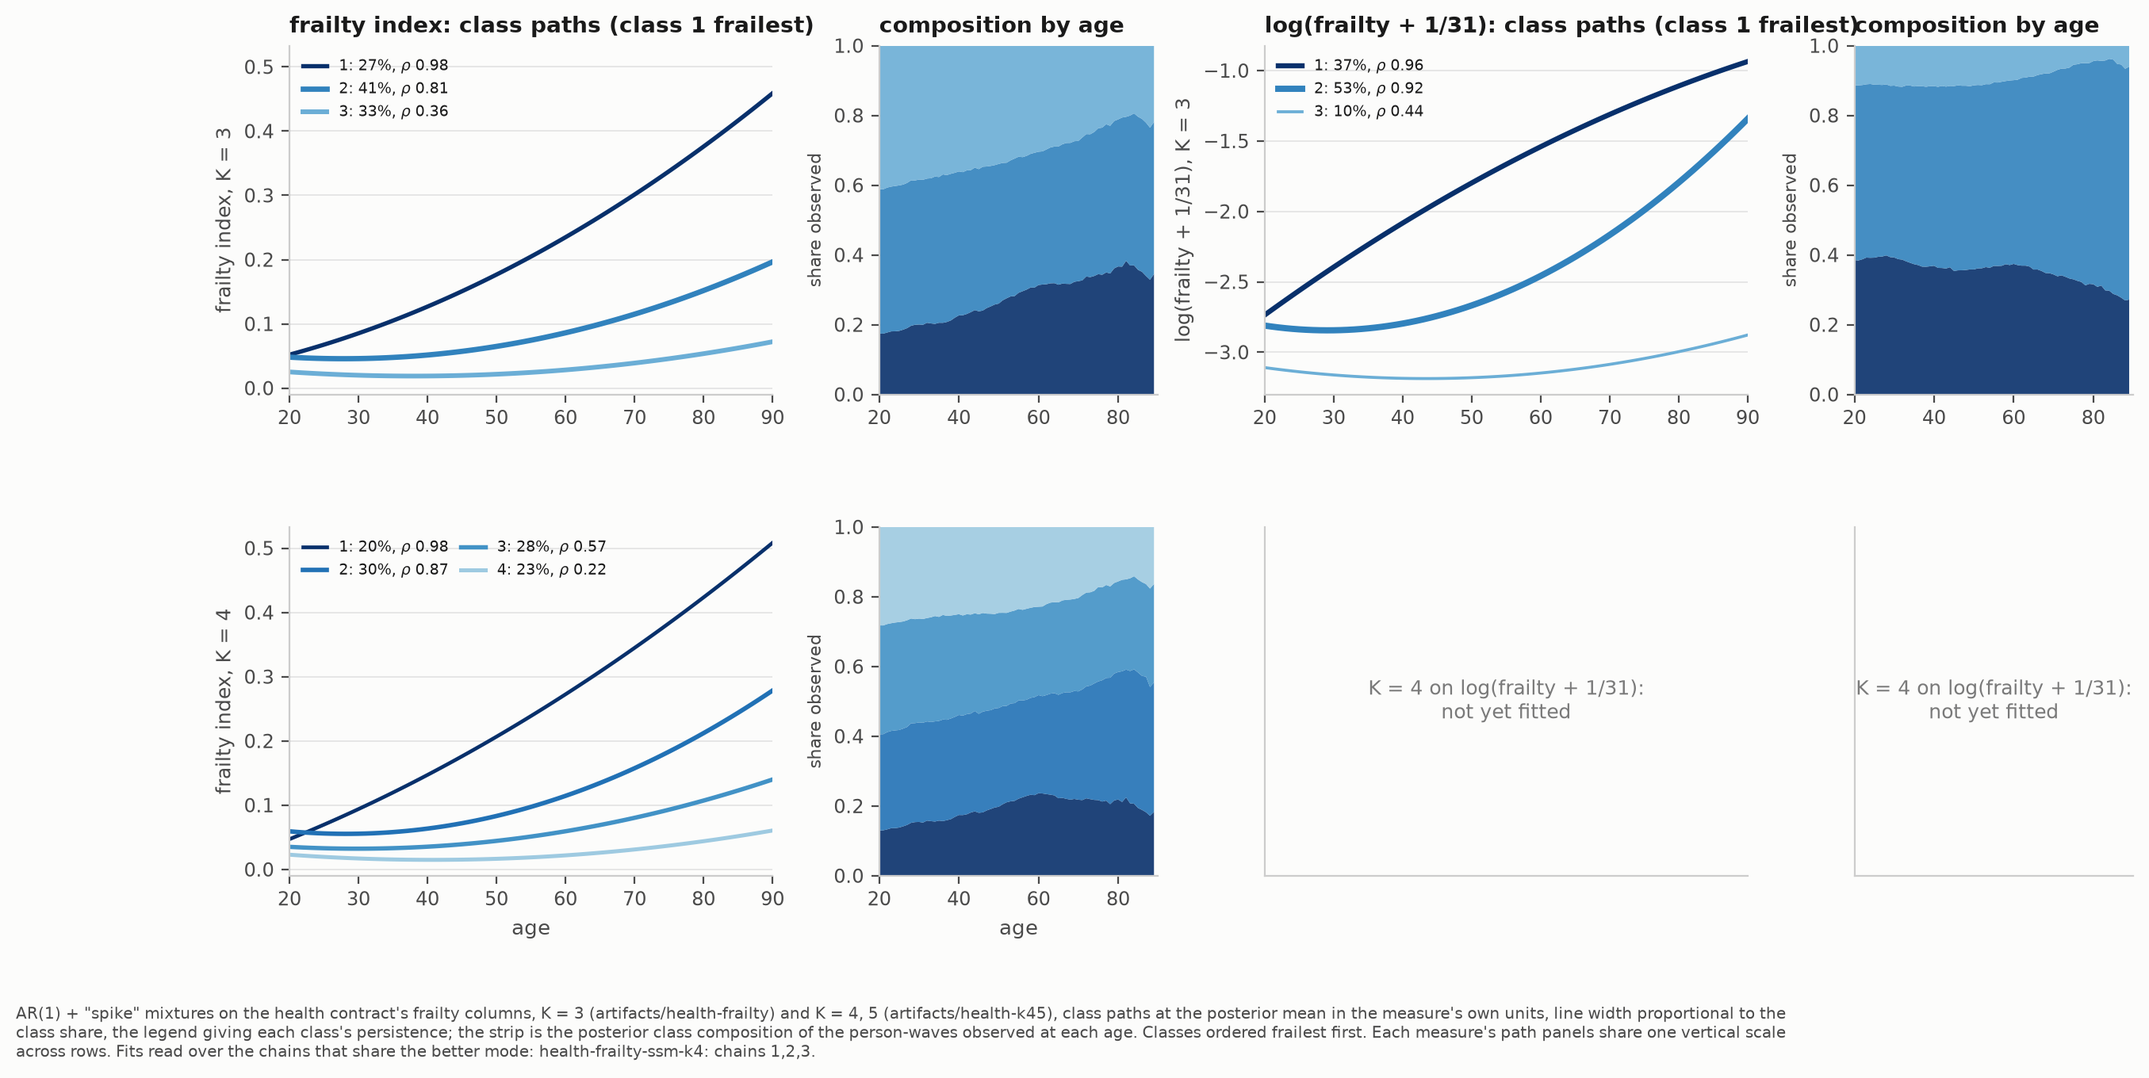
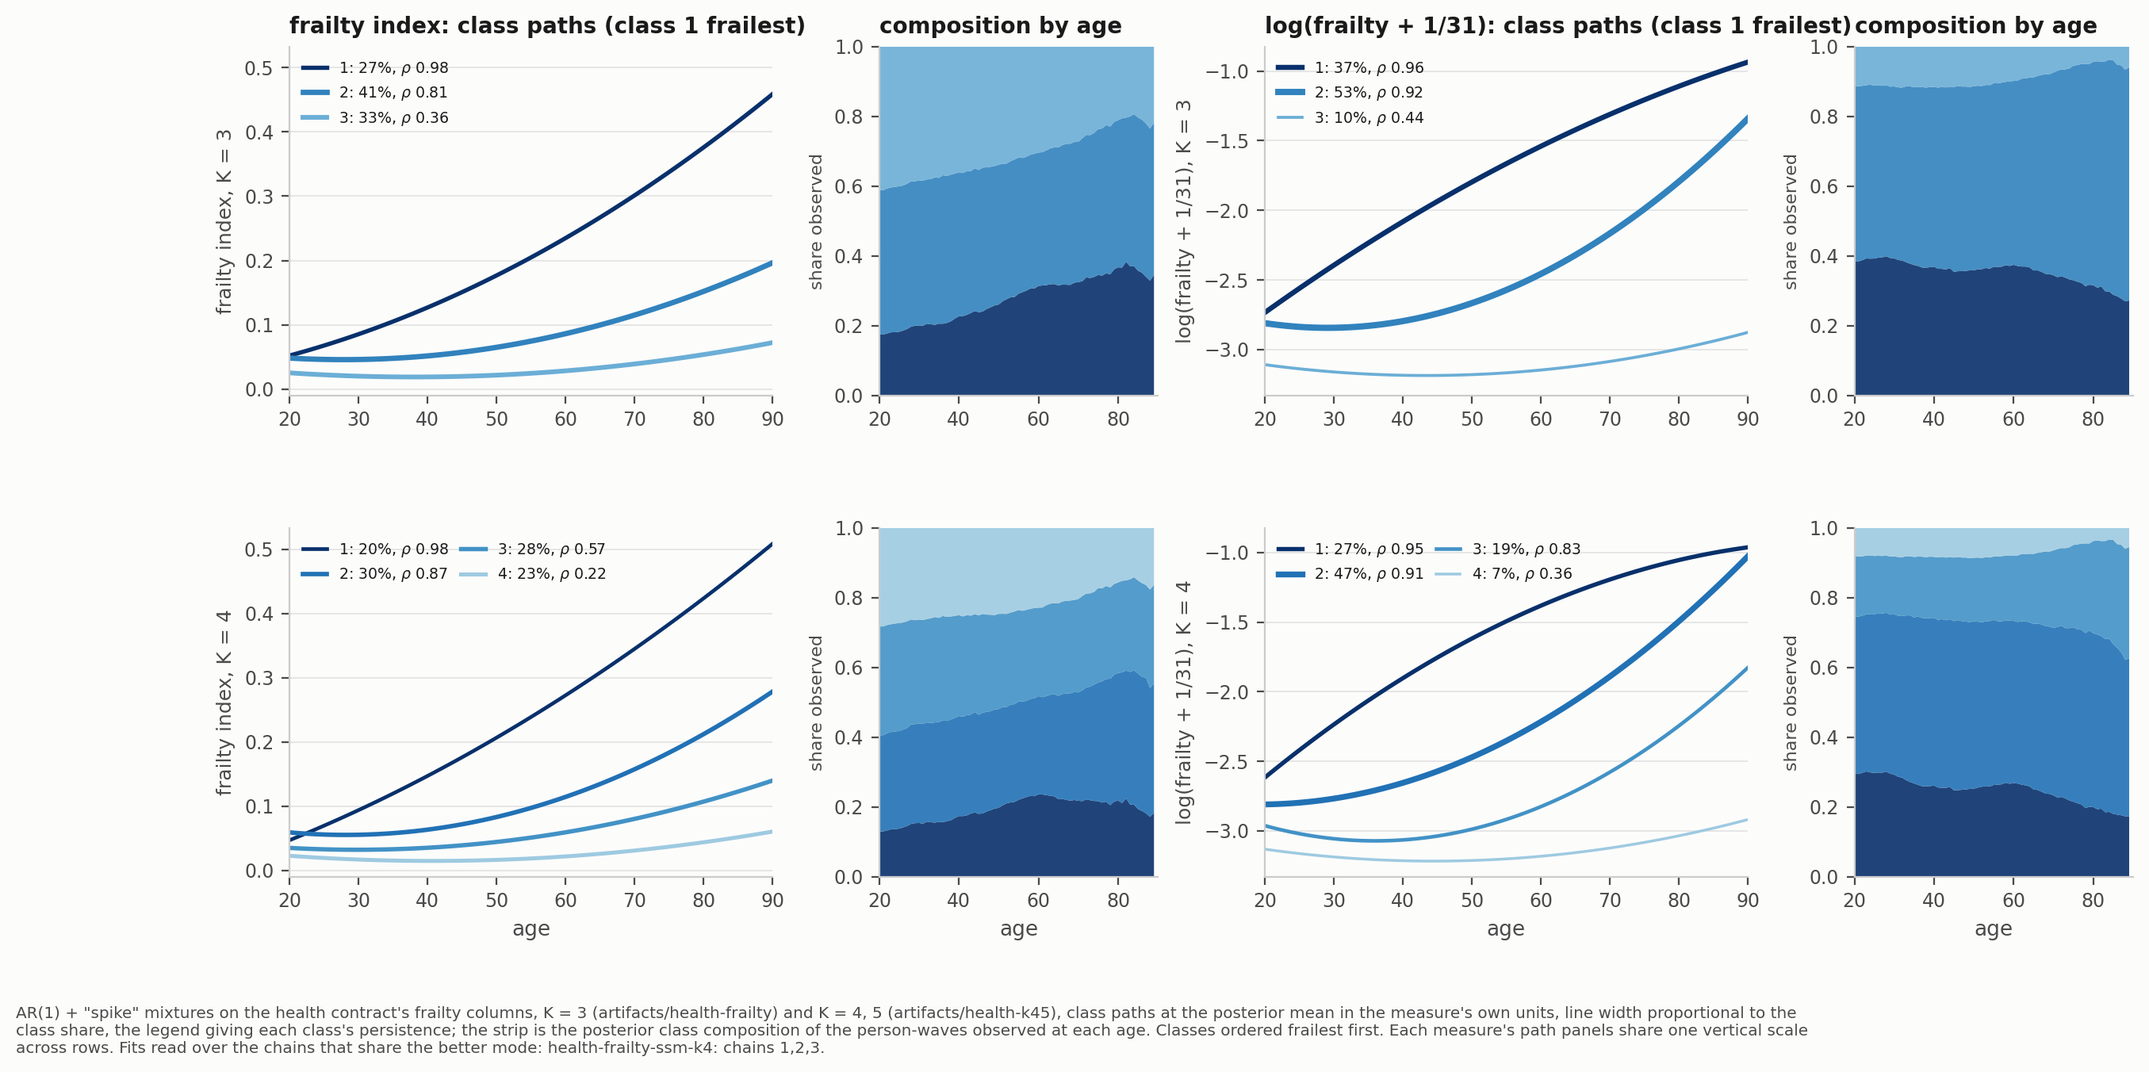
Finished fits processed: K = 4 windows twin, cohort K = 5, log-frailty K = 4
50 --k 4 draws the K = 4 twin of the windows figure (new appendix figure
fig:windows_k4), reading 60-90 over chains 1-3 (label swap in chain 4) and
70-90 over chains 1, 4 (two modes). 39 --kcohort reads cohort K = 5 over
chains 2, 3, which reproduce the no-shift K = 5 chain-1 classes; captions
of fig:multidim_k4_cohort and fig:frailty_by_K updated (51 rerun with
log-frailty K = 4).

Claude-Session: https://claude.ai/code/session_01X1eFnzWAvA5Cu7Ljyocxn7

diff --git a/descriptives/50_paper_windows_bayes.py b/descriptives/50_paper_windows_bayes.py
@@ -22,7 +22,10 @@ separates a different grouping from a blurred one.
 Outputs: paper/figures/fig_windows_bayes.png, artifacts/descriptives/paper_windows_bayes.csv
 (per window) and paper_windows_bayes_composition.csv (the worst class's share by age per window).
 
-    PYTHONPATH=src .venv/bin/python descriptives/50_paper_windows_bayes.py
+--k 4: the K = 4 twin, on the K = 4 window fits (theta-ssm-k4-{lo}-{hi}, windows_queue.py --k 4)
+against the K = 4 lifecycle fit (health-k45/health-theta-ssm-k4); outputs carry a _k4 suffix.
+
+    PYTHONPATH=src .venv/bin/python descriptives/50_paper_windows_bayes.py [--k 4]
 """
 
 from __future__ import annotations
@@ -47,25 +50,34 @@ SLIDING = [(20, 40), (30, 50), (40, 60), (50, 70), (60, 80), (70, 90)]
 BACKWARD = [(70, 90), (60, 90), (50, 90), (40, 90), (30, 90), (20, 90)]
 WIN = ARTIFACTS_DIR / "health-windows"
 V = "theta"
+KW = int(sys.argv[sys.argv.index("--k") + 1]) if "--k" in sys.argv else K
+SFX = "" if KW == K else f"_k{KW}"
+TAG = f"{V}-ssm-" if KW == K else f"{V}-ssm-k{KW}-"
+LIFE = ARTIFACTS_DIR / "health-ssm" / f"health-{V}-ssm" if KW == K else ARTIFACTS_DIR / "health-k45" / f"health-{V}-ssm-k{KW}"
+PAL = CLUSTER if KW == K else {4: ["#08306b", "#2171b5", "#4292c6", "#9ecae1"],
+                               5: ["#08306b", "#08519c", "#2171b5", "#4292c6", "#9ecae1"]}[KW]   # worst -> best, as 39
+# windows whose chains split: read over the chains that share the better mode
+WINDOW_CHAINS = {"theta-ssm-k4-60-90": [1, 2, 3],   # chain 4 has classes 3 and 4 swapped, otherwise identical
+                 "theta-ssm-k4-70-90": [1, 4]}      # two modes; 1, 4 at lp -44,565, 2, 3 at -44,573 / -44,576
 
 
 def window_fit(lo: int, hi: int) -> dict:
     """bayes_fit on the window's contract, classes re-ordered worst to best by the mean path over the window."""
     if (lo, hi) == (MIN_AGE, MAX_AGE):
-        r = bayes_fit(ARTIFACTS_DIR / "health-ssm" / f"health-{V}-ssm", V, K); contract = CONTRACT
+        r = bayes_fit(LIFE, V, KW); contract = CONTRACT
     else:
         contract = PROCESSED_DATA_DIR / "contracts" / f"health_window_{lo}_{hi}_v1"
-        r = bayes_fit(WIN / f"{V}-ssm-{lo}-{hi}", V, K, contract=contract)
+        r = bayes_fit(WIN / f"{TAG}{lo}-{hi}", V, KW, chains=WINDOW_CHAINS.get(f"{TAG}{lo}-{hi}"), contract=contract)
     ages = np.arange(lo, hi + 1); A = (ages - 55) / 10
     paths = np.vstack([r["mom"]["mean"] + r["mom"]["sd"] * (c[0] + c[1] * A + c[2] * A ** 2) for c in r["coef"]])
     order = np.argsort(paths.mean(axis=1))                      # worst (lowest theta) first
-    cols = [f"class{k + 1}" for k in range(K)]
+    cols = [f"class{k + 1}" for k in range(KW)]
     post = r["post"][cols].to_numpy()[:, order]
     comp = r["comp"][cols].to_numpy()[:, order]
-    summ = json.load(open((ARTIFACTS_DIR / "health-ssm" / f"health-{V}-ssm" if (lo, hi) == (MIN_AGE, MAX_AGE) else WIN / f"{V}-ssm-{lo}-{hi}") / "run_summary.json"))
+    summ = json.load(open((LIFE if (lo, hi) == (MIN_AGE, MAX_AGE) else WIN / f"{TAG}{lo}-{hi}") / "run_summary.json"))
     return {"lo": lo, "hi": hi, "ages": ages, "paths": paths[order], "share": r["theta"][order], "rho": r["rho"][order],
             "post": pd.DataFrame(post, columns=cols, index=r["post"]["pidp"].to_numpy()),
-            "comp": pd.DataFrame(comp, columns=cols, index=r["comp"].index), "rhat": summ["max_structural_rhat"],
+            "comp": pd.DataFrame(comp, columns=cols, index=r["comp"].index), "rhat": r["rhat"], "chains": r["chains"],
             "n": len(r["post"]), "wall": summ.get("wall_hours")}
 
 
@@ -77,20 +89,20 @@ def main() -> int:
     for w, f in fits.items():
         print(f"{w[0]}-{w[1]}: {f['n']:,} people, rhat {f['rhat']:.3f}, shares {np.round(f['share'], 3)}, rho {np.round(f['rho'], 2)}, wall {f['wall']}")
     fig, axes = plt.subplots(2, 3, figsize=(12.5, 7.9), gridspec_kw={"wspace": 0.25, "hspace": 0.45}, squeeze=False)
-    fig.suptitle("$\\theta$, K = 3 AR(1) + \"spike\" classes refitted on age windows", x=0.125, ha="left", fontsize=11, fontweight="bold", y=0.96)
+    fig.suptitle(f"$\\theta$, K = {KW} AR(1) + \"spike\" classes refitted on age windows", x=0.125, ha="left", fontsize=11, fontweight="bold", y=0.96)
     cmap = plt.get_cmap("viridis")
     rows = []
     for col, (wins, name) in enumerate([(SLIDING, "sliding twenty-year windows"), (BACKWARD, "windows expanding backwards from 90")]):
         ax = axes[0, col]
-        for k in range(K):
+        for k in range(KW):
             ax.plot(full["ages"], full["paths"][k], color=INK3, lw=3.0, alpha=0.35, zorder=1)
         for lo, hi in wins:
             if (lo, hi) == (MIN_AGE, MAX_AGE):
                 continue
             f = fits[(lo, hi)]
-            for k in range(K):
-                ax.plot(f["ages"], f["paths"][k], color=CLUSTER[k], lw=1.0 + 2.5 * f["share"][k], zorder=2)
-                ax.plot([lo], [f["paths"][k][0]], color=CLUSTER[k], marker="|", ms=7)
+            for k in range(KW):
+                ax.plot(f["ages"], f["paths"][k], color=PAL[k], lw=1.0 + 2.5 * f["share"][k], zorder=2)
+                ax.plot([lo], [f["paths"][k][0]], color=PAL[k], marker="|", ms=7)
             modal = pd.Series(f["post"].to_numpy().argmax(axis=1), index=f["post"].index)
             both = modal.index.intersection(full_modal.index)
             rows.append({"kind": "sliding" if col == 0 else "backward", "lo": lo, "hi": hi, "people": f["n"], "shared": len(both),
@@ -98,7 +110,8 @@ def main() -> int:
                          "coassign_corr": coassignment_corr(f["post"], full["post"]),
                          "same_vs_full": float((modal.loc[both] == full_modal.loc[both]).mean()),
                          "worst_share": float(f["share"][0]), "worst_modal_share": float((modal == 0).mean()), "rhat": f["rhat"],
-                         "rho_worst": f["rho"][0], "rho_mid": f["rho"][1], "rho_best": f["rho"][2]})
+                         "rho_worst": f["rho"][0], "rho_mid": f["rho"][1], "rho_best": f["rho"][-1],
+                         "chains": "all" if f["chains"] is None else ",".join(map(str, f["chains"]))})
         ax.set_title(f"({'ab'[col]}) {'sliding twenty-year windows' if col == 0 else 'windows expanding backwards from 90'}", loc="left", fontsize=9.5)
         ax.grid(True, axis="y"); ax.set_xlim(MIN_AGE, MAX_AGE); ax.set_xlabel("age")
     r = pd.DataFrame(rows)
@@ -128,18 +141,20 @@ def main() -> int:
     ax.set_ylim(0, 0.6); ax.grid(True, axis="y"); ax.set_xlim(MIN_AGE, MAX_AGE)
     ax.set_title("(f) worst class's share per window", loc="left", fontsize=9.5); ax.legend(loc="upper left", fontsize=7.5); ax.set_xlabel("age")
     share_ylim([axes[0, 0], axes[0, 1]])
-    footer = ("Each window refits the K = 3 AR(1) + \"spike\" mixture on theta on the people observed at least three times inside it (its own contract and fit). Coloured lines: the window's class paths at the posterior "
+    split = [f"{lo}-{hi} over chains {','.join(map(str, f['chains']))}" for (lo, hi), f in fits.items() if f.get("chains") is not None]
+    footer = (f"Each window refits the K = {KW} AR(1) + \"spike\" mixture on theta on the people observed at least three times inside it (its own contract and fit). Coloured lines: the window's class paths at the posterior "
               "mean over its own age range (tick at the start; line width proportional to the class share); grey: the lifecycle 20-90 fit. Panel (c): over pairs of people in both fits (a random 3,000), the correlation between the probability that the window fit puts the pair in the same class "
               "and the probability that the lifecycle fit does, sum_k p_ik p_jk under each; it needs no correspondence between the two sets of labels and is 1 whenever the two posteriors coincide "
               "(the adjusted Rand index of the modal classes is in the csv). Panels (d), (e): the worst class's posterior share of the person-waves observed at each age (five-year rolling mean), one line per window, "
-              "against the lifecycle fit in grey; (f) the worst class's share of each window's people. Classes ordered worst to best by the class path's mean over the window.")
+              "against the lifecycle fit in grey; (f) the worst class's share of each window's people. Classes ordered worst to best by the class path's mean over the window."
+              + (f" Windows whose chains split into modes are read over the chains that share the better mode: {'; '.join(split)}." if split else ""))
     fig.text(0.01, -0.01, "\n".join(textwrap.wrap(footer, 185)), fontsize=7.4, color=INK2, va="top")
-    fig.savefig(FIG / "fig_windows_bayes.png", bbox_inches="tight")
-    r.to_csv(DESC / "paper_windows_bayes.csv", index=False)
+    fig.savefig(FIG / f"fig_windows_bayes{SFX}.png", bbox_inches="tight")
+    r.to_csv(DESC / f"paper_windows_bayes{SFX}.csv", index=False)
     comp_rows = [{"lo": w[0], "hi": w[1], "age": int(a), "worst_share": float(v)} for w, f in fits.items() for a, v in f["comp"]["class1"].items()]
-    pd.DataFrame(comp_rows).to_csv(DESC / "paper_windows_bayes_composition.csv", index=False)
+    pd.DataFrame(comp_rows).to_csv(DESC / f"paper_windows_bayes_composition{SFX}.csv", index=False)
     print(r.round(3).to_string(index=False))
-    print(f"wrote fig_windows_bayes.png to {FIG}")
+    print(f"wrote fig_windows_bayes{SFX}.png to {FIG}")
     return 0
 
 

diff --git a/paper/paper_skeleton.tex b/paper/paper_skeleton.tex
@@ -565,7 +565,7 @@ Small robustness exercise:
 	
 	\begin{figure}[H]\centering
 		\includegraphics[width=\linewidth]{fig_windows_bayes.png}
-		\caption{The $K=3$ AR(1) plus ``spike'' classes on $\theta$ refitted on sliding twenty-year windows (a) and on windows expanding backwards from 90 (b), each on the people observed at least three times inside it, against the lifecycle classes in grey; (c) the co-assignment correlation with the lifecycle classes: over pairs of people in both fits, the correlation between the probability that the window fit puts the pair in the same class and the probability that the lifecycle fit does, which needs no correspondence between the two sets of labels and is 1 whenever the two posteriors coincide. Lower row: the worst class's posterior share of the person-waves observed at each age, for the sliding (d) and backward (e) windows, against the lifecycle fit in grey; (f) the worst class's share of each window's people. The partial K-means version is Figure~\ref{fig:windows_kmeans} in Appendix~\ref{app:kmeans}, and K-means on $h$ is in Appendix~\ref{app:measures}.}
+		\caption{The $K=3$ AR(1) plus ``spike'' classes on $\theta$ refitted on sliding twenty-year windows (a) and on windows expanding backwards from 90 (b), each on the people observed at least three times inside it, against the lifecycle classes in grey; (c) the co-assignment correlation with the lifecycle classes: over pairs of people in both fits, the correlation between the probability that the window fit puts the pair in the same class and the probability that the lifecycle fit does, which needs no correspondence between the two sets of labels and is 1 whenever the two posteriors coincide. Lower row: the worst class's posterior share of the person-waves observed at each age, for the sliding (d) and backward (e) windows, against the lifecycle fit in grey; (f) the worst class's share of each window's people. The partial K-means version is Figure~\ref{fig:windows_kmeans} in Appendix~\ref{app:kmeans}, K-means on $h$ is in Appendix~\ref{app:measures}, and the $K=4$ twin is Figure~\ref{fig:windows_k4}.}
 		\label{fig:windows}
 	\end{figure}
 	
@@ -981,7 +981,7 @@ Small robustness exercise:
 
 	\begin{figure}[H]\centering
 		\includegraphics[width=\linewidth]{fig_frailty_by_K.png}
-		\caption{The frailty index and log frailty under AR(1) plus ``spike'' by number of classes: class paths and the posterior class composition by age at $K=3$ and $K=4$ ($K=5$ when fitted), class 1 the frailest. On the frailty index $K=4$ splits the $K=3$ middle class into a steeper riser (30\%, persistence $0.87$) and a flatter one (28\%, $0.57$); the frailest class keeps its path and shrinks from 27\% to 20\%, and the healthiest stays at the floor with a persistence of $0.22$. The frailest class's share of the person-waves peaks around 60 and falls after, the mortality selection the index sees. The $K=4$ fit is read over the three chains that share its mode.}
+		\caption{The frailty index and log frailty under AR(1) plus ``spike'' by number of classes: class paths and the posterior class composition by age at $K=3$ and $K=4$ ($K=5$ when fitted), class 1 the frailest. On the frailty index $K=4$ splits the $K=3$ middle class into a steeper riser (30\%, persistence $0.87$) and a flatter one (28\%, $0.57$); the frailest class keeps its path and shrinks from 27\% to 20\%, and the healthiest stays at the floor with a persistence of $0.22$. The frailest class's share of the person-waves peaks around 60 and falls after, the mortality selection the index sees. On log frailty $K=4$ splits the healthy end instead: the frailest class shrinks from 37\% to 27\% and the middle from 53\% to 47\%, a new class (19\%, persistence $0.83$) rises late from near the floor, and the floor class falls from 10\% to 7\% (persistence $0.36$). The frailty $K=4$ fit is read over the three chains that share its mode; the log-frailty $K=4$ fit has all four chains at one mode.}
 		\label{fig:frailty_by_K}
 	\end{figure}
 	
@@ -1166,6 +1166,15 @@ Small robustness exercise:
 		\item \textbf{The number of classes refines who is in the worst type and tightens it, but leaves its mean shape alone.} Under K-means the worst type halves from 18\% to 9\% by $K=5$, keeping 63\% and then 48\% of the $K=3$ members, its within-type sd falls from $0.66$ to $0.55$, and its path keeps the same shape shifted down by a quarter to a third of a unit. Under the mixture the worst class moves from 18\% to 14\% by modal label, keeps 84\% and 76\% of its $K=3$ members, and its path, persistence and within-class spread barely move; the added classes split the middle and the healthy. The two methods converge on the same core: the $K=5$ K-means worst type is almost entirely inside the mixture's worst class.
 	\end{itemize}
 	
+	\subsection{The windows at four classes}
+	\label{app:windows_k4}
+
+	\begin{figure}[H]\centering
+		\includegraphics[width=\linewidth]{fig_windows_bayes_k4.png}
+		\caption{As Figure~\ref{fig:windows}, at $K=4$: the AR(1) plus ``spike'' mixture with four classes refitted on each window, against the $K=4$ lifecycle fit in grey (worst class 22\%). Agreement with the lifecycle classes is lower than at $K=3$ once the window starts late: the backward windows' co-assignment correlation is $0.43$ from 70, $0.48$ from 60, $0.80$ from 50, $0.77$ from 40 and $0.99$ from 30, the sliding windows $0.43$--$0.86$. The windows starting at 50 or later find a small, very low class (8--17\%, near $-1.5$ to $-2$ in $\theta$) that sits below the lifecycle worst class, and the 40--60 window again has the largest worst class (31\%). The 70--90 fit split into two modes and is read over the two chains with the higher log posterior; in the 60--90 fit one chain had two classes swapped and is left out.}
+		\label{fig:windows_k4}
+	\end{figure}
+
 	\subsection{Birth-decade cohort effects}
 	\label{app:cohort}
 	\begin{figure}[H]\centering
@@ -1182,7 +1191,7 @@ Small robustness exercise:
 
 	\begin{figure}[H]\centering
 		\includegraphics[width=\linewidth]{fig_multidim_trajectories_by_K_cohort.png}
-		\caption{The multidimensional $K=4$ fit without and with the birth-decade shifts, and the $K=5$ fit without them (its shifted twin is running and joins the figure when it lands), columns as in Figure~\ref{fig:multidim}. With the shifts the four classes are the same as without (11, 26, 41 and 23\% against 11, 26, 42 and 21\%), with the same shapes on both channels and the same hazard ordering; the shifts on the physical channel run from $+0.49$ for the 1920s cohort to $-0.45$ for the 2000s relative to the 1950s, so the paths drawn at the 1950s sit higher at young ages. The shifted fit has two modes of identical log posterior; the one drawn reproduces the no-shift classes, the other puts 36\% in the steep decliner and 14\% in the healthy class. Each fit is read over the chains that share its mode.}
+		\caption{The multidimensional $K=4$ and $K=5$ fits without and with the birth-decade shifts, columns as in Figure~\ref{fig:multidim}. With the shifts the four classes are the same as without (11, 26, 41 and 23\% against 11, 26, 42 and 21\%), with the same shapes on both channels and the same hazard ordering; the shifts on the physical channel run from $+0.49$ for the 1920s cohort to $-0.45$ for the 2000s relative to the 1950s, so the paths drawn at the 1950s sit higher at young ages. The shifted fit has two modes of identical log posterior; the one drawn reproduces the no-shift classes, the other puts 36\% in the steep decliner and 14\% in the healthy class. At $K=5$ the shifted fit's two best chains agree (chains 2 and 3, about 170 log-posterior units above the next) and reproduce the no-shift classes read from its single best chain: 8, 9, 20, 40 and 22\% against 9, 8, 22, 40 and 21\%, with the same shapes and hazard ordering (worst-to-best hazard ratio at 55 of 16.9 against 13.8). Each fit is read over the chains that share its mode.}
 		\label{fig:multidim_k4_cohort}
 	\end{figure}
 	

diff --git a/descriptives/39_paper_multidim.py b/descriptives/39_paper_multidim.py
@@ -66,7 +66,7 @@ FITS_K = [("theta-ssm-mort", "theta", 'AR(1) + "spike", K = 3', None, 3),
 FITS_K_COHORT = [("theta-ssm-mort-k4", "theta", 'K = 4, no shifts', [1, 3, 4], 4),
                  ("theta-ssm-mort-cohort-k4", "theta", 'K = 4, birth-decade shifts', [2, 3], 4),   # two modes of identical lp; 2, 3 reproduce the no-shift classes
                  ("theta-ssm-mort-k5", "theta", 'K = 5, no shifts', [1], 5),
-                 ("theta-ssm-mort-cohort-k5", "theta", 'K = 5, birth-decade shifts', None, 5)]
+                 ("theta-ssm-mort-cohort-k5", "theta", 'K = 5, birth-decade shifts', [2, 3], 5)]   # chains 2, 3 agree (lp -646,097); 1 and 4 sit 167 and 785 lower
 PALETTE = {3: CLUSTER, 4: ["#08306b", "#2171b5", "#4292c6", "#9ecae1"],
            5: ["#08306b", "#08519c", "#2171b5", "#4292c6", "#9ecae1"]}     # worst -> best, as 36_paper_trajectories.py
 # h-ssm-mort: chains 1-3 agree to three decimals; chain 4 sits in the mode with the
@@ -281,7 +281,7 @@ def main() -> int:
              "The Makeham constant is below 0.0001 in every fit. Each column has one vertical scale across its rows."
              + (" Class paths and observed class means are at the 1950s birth decade, every score net of its estimated decade shift." if COHORT else "")
              + (" Rows: K = 4 and 5 under AR(1) + \"spike\" without and with one level shift per birth decade common to the classes (paths at the 1950s, scores net of the shift); "
-                "classes ordered worst to best; each fit read over the chains that share its better mode (K = 4: chains 1, 3, 4 without shifts, 2, 3 with; K = 5: chain 1 without shifts)." if KCOHORT
+                "classes ordered worst to best; each fit read over the chains that share its better mode (K = 4: chains 1, 3, 4 without shifts, 2, 3 with; K = 5: chain 1 without shifts, 2, 3 with)." if KCOHORT
                 else " Rows: the class count K = 3, 4 and 5 under AR(1) + \"spike\"; classes ordered worst to best." if KMODE else "")
              + (" h + AR(1) + \"spike\" is read over the three chains that share a mode; the fourth sat in the mode "
              "with the class 2 and 3 intercepts pressed together on the ordering constraint, about 2,950 log-posterior units lower." if V_ONLY == "h" else ""),
